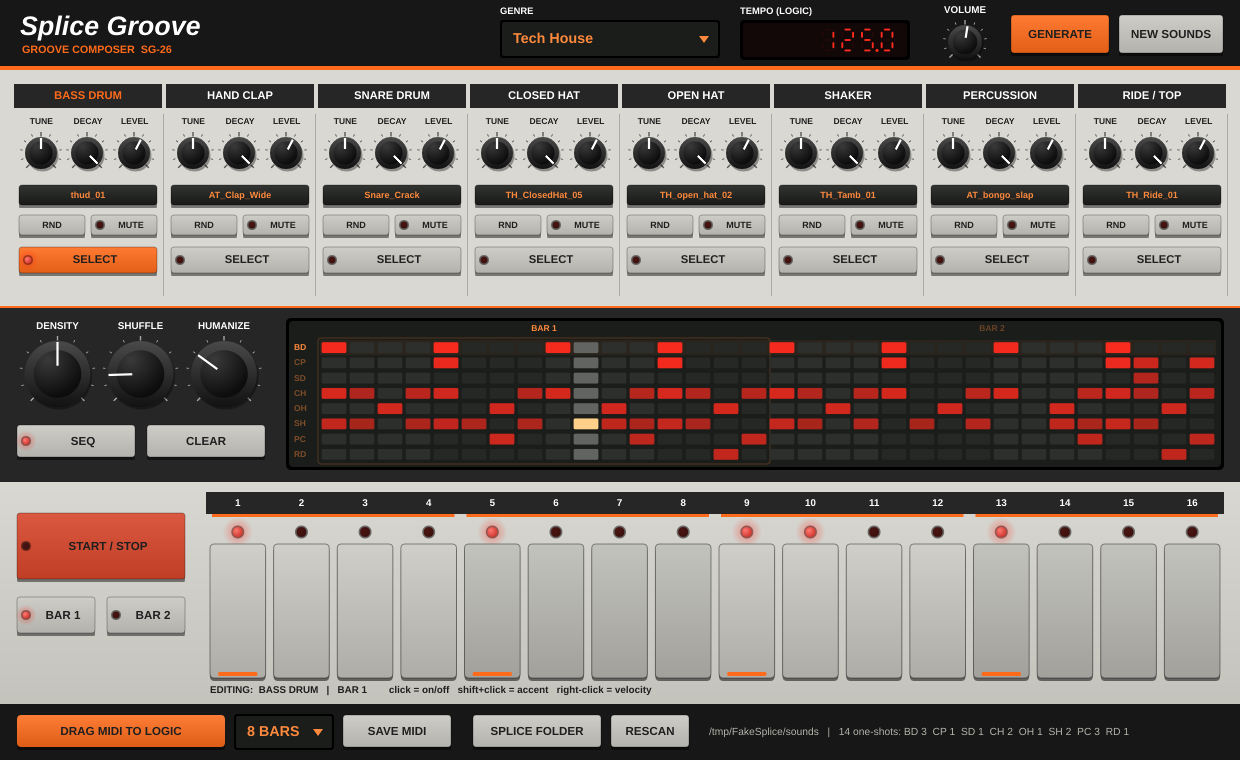
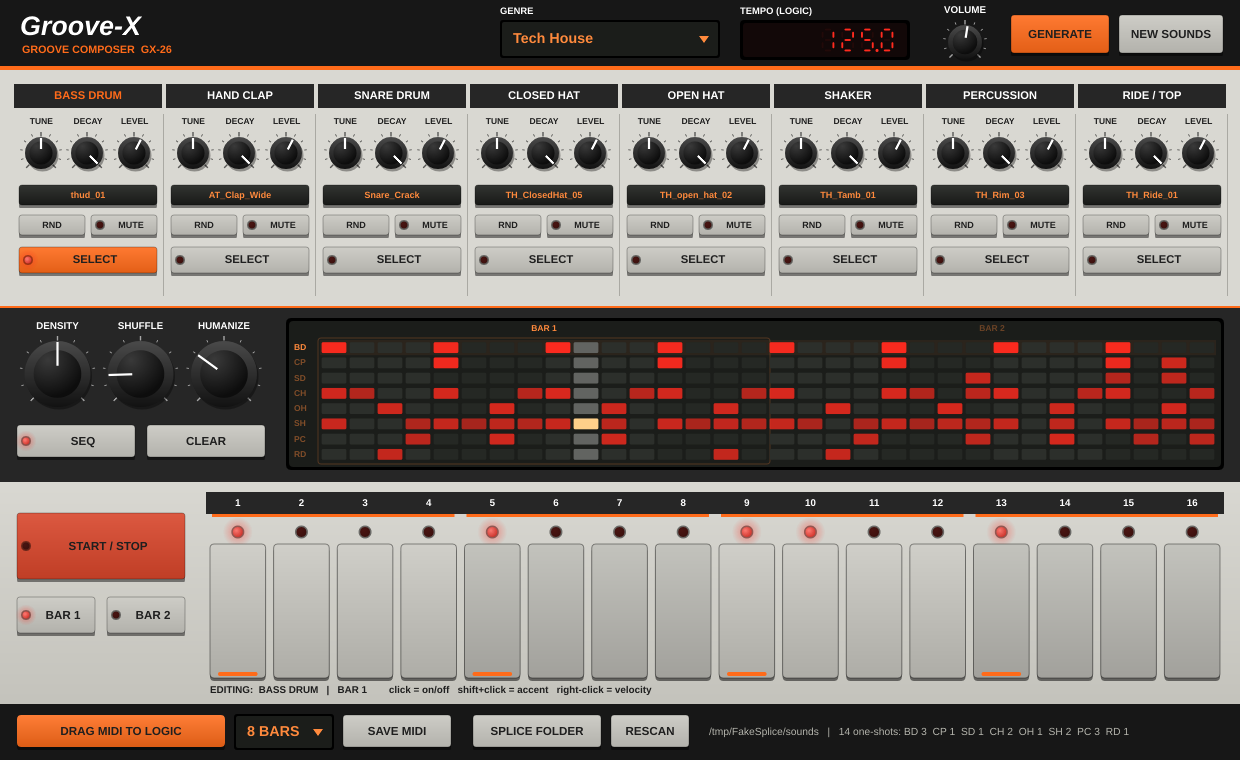
Rename plugin to Groove-X by Tune Talks (new AU codes Tntk/GrvX, installer removes old Splice Groove)
Claude-Session: https://claude.ai/code/session_01BPBGXQQZTpNKRmhsopeeKV

diff --git a/Source/PluginProcessor.cpp b/Source/PluginProcessor.cpp
@@ -43,7 +43,7 @@ juce::AudioProcessorValueTreeState::ParameterLayout SpliceGrooveProcessor::creat
 
 SpliceGrooveProcessor::SpliceGrooveProcessor()
     : AudioProcessor (BusesProperties().withOutput ("Output", juce::AudioChannelSet::stereo(), true)),
-      apvts (*this, nullptr, "SpliceGroove", createLayout())
+      apvts (*this, nullptr, "GrooveX", createLayout())
 {
     formatManager.registerBasicFormats();
     events.reserve (2048);
@@ -411,7 +411,7 @@ void SpliceGrooveProcessor::processBlock (juce::AudioBuffer<float>& buffer, juce
 juce::String SpliceGrooveProcessor::suggestedMidiName (int bars) const
 {
     auto name = genreInfo (getGenre()).name.removeCharacters (" ");
-    return "SpliceGroove_" + name + "_" + juce::String (juce::roundToInt (getEffectiveBpm())) + "bpm_"
+    return "GrooveX_" + name + "_" + juce::String (juce::roundToInt (getEffectiveBpm())) + "bpm_"
            + juce::String (bars) + "bars";
 }
 
@@ -450,7 +450,7 @@ juce::MidiFile SpliceGrooveProcessor::createMidiFile (int bars) const
 
 juce::File SpliceGrooveProcessor::writeMidiToTempFile (int bars) const
 {
-    auto dir = juce::File::getSpecialLocation (juce::File::tempDirectory).getChildFile ("SpliceGroove");
+    auto dir = juce::File::getSpecialLocation (juce::File::tempDirectory).getChildFile ("GrooveX");
     dir.createDirectory();
     auto file = dir.getChildFile (suggestedMidiName (bars) + ".mid");
     file.deleteFile();

diff --git a/Source/PluginEditor.cpp b/Source/PluginEditor.cpp
@@ -827,10 +827,10 @@ void SpliceGrooveEditor::paint (juce::Graphics& g)
 
     g.setColour (juce::Colours::white);
     g.setFont (juce::FontOptions (30.0f, juce::Font::bold | juce::Font::italic));
-    g.drawText ("Splice Groove", 20, 6, 260, 40, juce::Justification::centredLeft);
+    g.drawText ("Groove-X", 20, 6, 260, 40, juce::Justification::centredLeft);
     g.setColour (col::orange);
     g.setFont (juce::FontOptions (12.0f, juce::Font::bold));
-    g.drawText ("GROOVE COMPOSER  SG-26", 22, 42, 260, 16, juce::Justification::centredLeft);
+    g.drawText ("GROOVE COMPOSER  GX-26", 22, 42, 260, 16, juce::Justification::centredLeft);
 
     // tempo LCD
     auto lcd = juce::Rectangle<float> ((float) kW - 500.0f, 20.0f, 170.0f, 40.0f);

diff --git a/README.md b/README.md
@@ -1,6 +1,6 @@
-# Splice Groove: generatore di pattern di batteria per Logic Pro (AU / VST3)
+# Groove-X: generatore di pattern di batteria per Logic Pro (AU / VST3)
 
-Splice Groove è uno strumento virtuale che **genera pattern di batteria** in 5 generi e li suona
+Groove-X è uno strumento virtuale che **genera pattern di batteria** in 5 generi e li suona
 con i **campioni Splice che hai già scaricato** sul Mac. Il pattern va a tempo con Logic, e puoi
 trascinarlo nella timeline come regione MIDI.
 
@@ -29,7 +29,7 @@ hai già scaricato con l'app Splice, che li salva in locale (di default in `~/Sp
 ## Installazione
 
 ### Il modo più semplice: installer .pkg
-Scarica **`SpliceGroove-x.y.z-macOS.pkg`** dalla pagina
+Scarica **`GrooveX-x.y.z-macOS.pkg`** dalla pagina
 [Releases](https://github.com/andreagrasselliatcg-art/splice-groove/releases/latest), poi fai
 **tasto destro → Apri** e segui l'installazione. Il plugin va in `/Library/Audio/Plug-Ins`
 (AU + VST3, Apple Silicon + Intel).
@@ -42,7 +42,7 @@ Logic Pro usa solo plugin **Audio Unit (AU)**, che vanno compilati su un Mac. Se
 1. Crea un repository su GitHub (anche privato) e carica tutta questa cartella.
 2. GitHub compila da solo il plugin (tab **Actions** → "Build macOS (AU + VST3)", circa 10 minuti).
    La build verifica anche il plugin con `auval`, il validatore ufficiale di Apple.
-3. Scarica l'artifact **SpliceGroove-macOS.zip**, decomprimilo e fai doppio clic su
+3. Scarica l'artifact **GrooveX-macOS.zip**, decomprimilo e fai doppio clic su
    **`install_mac.command`**. Se macOS lo blocca: tasto destro → Apri.
 
 ### Opzione B: compilare sul tuo Mac
@@ -50,11 +50,11 @@ Logic Pro usa solo plugin **Audio Unit (AU)**, che vanno compilati su un Mac. Se
 ```bash
 xcode-select --install      # una volta sola
 brew install cmake          # una volta sola
-cd SpliceGroove
+cd GrooveX
 ./build_mac.sh              # compila, installa e valida
 ```
 
-Poi in Logic: **nuova traccia Software Instrument → AU Instruments → Andrea Grasselli → Splice Groove**.
+Poi in Logic: **nuova traccia Software Instrument → AU Instruments → Tune Talks → Groove-X**.
 
 ---
 
